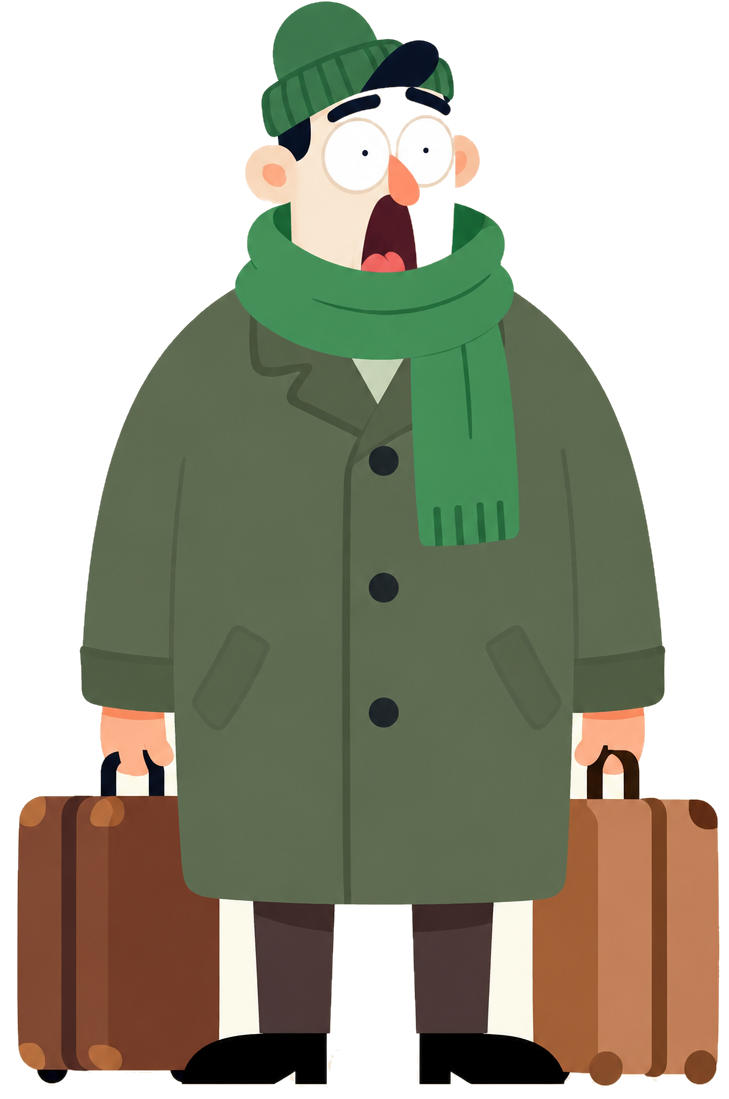
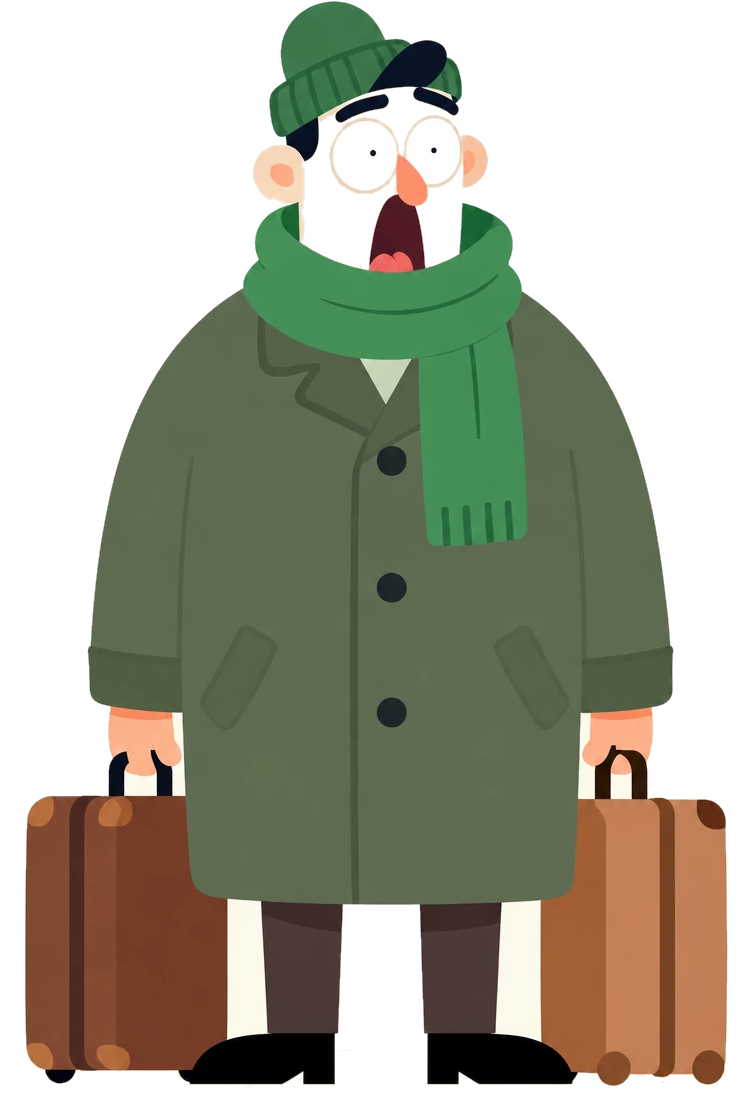
Fix the ancient Otto cutout and add engine support for character episodes
The white beard was flooded away with the cream background, leaving his face see-through. cutout.py gets FILLROWS
(fill the head rows between the outermost solid pixels) and every character was checked on a saturated colour.
Engine: episode mode has no progress bar, E.text takes nowrap (text-wrap:balance was overriding it). Audio: record
scratch and dust poof effects. Landlord cutout added.

diff --git a/tools/reel/engine.js b/tools/reel/engine.js
@@ -124,11 +124,11 @@ window.E = (() => {
   // ---------- kinetic text ----------
   // *word* = mint pill, *$word* = amber pill, *!word* = coral pill, | = line break.
   E.text = (parent, str, o = {}) => {
-    const { size = 56, weight = 900, color = "", lh = 1.06, ls = "", t = 0, stagger = .07, dur = .3, rise = 26, align = "left", font = "", instant = false, css = "", id = "", check = true, up = false } = o;
+    const { size = 56, weight = 900, color = "", lh = 1.06, ls = "", t = 0, stagger = .07, dur = .3, rise = 26, align = "left", font = "", instant = false, css = "", id = "", check = true, up = false, nowrap = false } = o;
     const block = E.el(parent, "tx", `font-size:${size}px;font-weight:${weight};line-height:${lh};text-align:${align};${color ? `color:${color};` : ""}${ls ? `letter-spacing:${ls};` : ""}${font ? `font-family:${font};` : ""}${up ? "text-transform:uppercase;" : ""}${css}`);
     let n = 0; const wordEls = [];
     for (const line of String(str).split("|")) {
-      const ln = E.el(block, "ln");
+      const ln = E.el(block, "ln", nowrap ? "text-wrap:nowrap;white-space:nowrap" : "");   // (.ln has text-wrap:balance, which would override an inherited nowrap)
       const re = /\*([^*]+)\*([^\s*]*)|(\S+)/g; let m;
       while ((m = re.exec(line))) {
         const span = document.createElement("span");
@@ -311,8 +311,7 @@ window.E = (() => {
       E.logo.style.padding = dk ? "8px" : "0";
       E.logo.style.width = E.logo.style.height = dk ? "128px" : "112px";
       E.logo.style.top = dk ? "62px" : "70px"; E.logo.style.right = dk ? "52px" : "60px";
-      E.prog.style.background = dk ? "rgba(246,241,231,.18)" : "rgba(11,42,44,.14)";
-      E.progFill.style.background = dk ? C.mint : C.mintD;
+      if (E.prog) { E.prog.style.background = dk ? "rgba(246,241,231,.18)" : "rgba(11,42,44,.14)"; E.progFill.style.background = dk ? C.mint : C.mintD; }
     }
   };
   E.sceneAt = t => { let r = E.scenes[0]; for (const S of E.scenes) if (t >= S.t0) r = S; return r; };
@@ -321,8 +320,10 @@ window.E = (() => {
   E.finish = (dur) => {
     E.dur = dur;
     E.logo = E.el(E.ui, "logo"); E.logo.innerHTML = `<img src="${E.assets.logo}" alt="">`;
-    E.prog = E.el(E.ui, "prog"); E.progFill = E.el(E.prog, "", "position:absolute;inset:0;border-radius:6px;transform-origin:0 50%");
-    E.K(E.progFill, "sx", [[0, 0.0001], [dur, 1, "lin"]]);
+    if (E.kind !== "episode") {                                                       // (an episode has no progress bar: Instagram draws its own)
+      E.prog = E.el(E.ui, "prog"); E.progFill = E.el(E.prog, "", "position:absolute;inset:0;border-radius:6px;transform-origin:0 50%");
+      E.K(E.progFill, "sx", [[0, 0.0001], [dur, 1, "lin"]]);
+    }
     E.render(0);
   };
 

diff --git a/tools/reel/audio.py b/tools/reel/audio.py
@@ -71,7 +71,21 @@ def s_nope():
 def s_riser():
     return peak(band_noise(1.0, 180, 3800, 1.6, 1.0, ramp=1.6)) * .55
 
-SFX = dict(whoosh=s_whoosh, swish=s_swish, pop=s_pop, thud=s_thud, slam=s_slam, ding=s_ding, tick=s_tick, sparkle=s_sparkle, nope=s_nope, riser=s_riser)
+def s_scratch():
+    # record scratch: a fast pitch dive and a quick swing back, over grainy noise
+    n1, n2 = int(.16 * SR), int(.11 * SR)
+    f = np.concatenate([np.linspace(1100, 140, n1), np.linspace(140, 620, n2)])
+    ph = 2 * np.pi * np.cumsum(f) / SR
+    saw = sum(np.sin(h * ph) / h for h in (1, 2, 3, 4))
+    grain = lowpass(rng.standard_normal(len(f)), 3)
+    e = np.concatenate([np.linspace(.2, 1, n1) ** .5, np.linspace(1, 0, n2) ** 1.3])
+    return peak((saw * .7 + grain * .9) * e) * .8
+def s_poof():
+    n = int(.7 * SR); t = T(n)
+    puff = band_noise(.7, 3000, 260, 1.1, 1.0)[:n] * np.exp(-t / .22)
+    low = sweep(.7, 90, 40, 9) * env(n, .004, .12)
+    return peak(puff * .8 + low * .5) * .8
+SFX = dict(scratch=s_scratch, poof=s_poof, whoosh=s_whoosh, swish=s_swish, pop=s_pop, thud=s_thud, slam=s_slam, ding=s_ding, tick=s_tick, sparkle=s_sparkle, nope=s_nope, riser=s_riser)
 cache = {}
 sfx = np.zeros((N, 2)); loud = []
 for k, ev in enumerate(sorted(meta["sounds"], key=lambda e: e["t"])):
@@ -81,7 +95,7 @@ for k, ev in enumerate(sorted(meta["sounds"], key=lambda e: e["t"])):
     i = int(round(ev["t"] * SR)); j = min(N, i + len(y))
     pan = 0.5 + (0.12 if k % 2 else -0.12)                       # a touch of alternating width
     sfx[i:j, 0] += y[:j - i] * np.cos(pan * np.pi / 2); sfx[i:j, 1] += y[:j - i] * np.sin(pan * np.pi / 2)
-    if name in ("whoosh", "thud", "slam", "ding", "sparkle", "nope", "riser"): loud.append(ev["t"])
+    if name in ("whoosh", "thud", "slam", "ding", "sparkle", "nope", "riser", "scratch", "poof"): loud.append(ev["t"])
 
 # ---------- music bed ----------
 spec = meta.get("music") or {}

diff --git a/tools/reel/cutout.py b/tools/reel/cutout.py
@@ -2,7 +2,7 @@
 """cutout.py in.(webp|png) out.png — make a flat cream background transparent.
 Flood-fills from the image border over pixels close to the border colour, so cream inside the character
 (a polo shirt, a page) stays. Edge pixels get a soft alpha. Needs only PIL + numpy."""
-import sys
+import sys, os
 from collections import deque
 import numpy as np
 from PIL import Image, ImageFilter
@@ -36,6 +36,14 @@ soft = np.clip((dist - tol * .55) / (tol * .9), 0, 1) * 255
 alpha = np.where(edge & ~seen, np.minimum(alpha + 255, soft + 40).clip(0, 255), alpha)
 alpha = np.asarray(Image.fromarray(alpha.astype(np.uint8)).filter(ImageFilter.GaussianBlur(.8)))
 alpha = np.where(seen, 0, alpha)
+# FILLROWS=0.5: a near-cream feature (a white beard) can be flooded away together with the background. In the top part of the
+# image, treat everything between the outermost solid pixels of each row as the character.
+fr = os.environ.get("FILLROWS")
+if fr:
+    solid = alpha > 128
+    for y in range(int(h * float(fr))):
+        xs = np.flatnonzero(solid[y])
+        if len(xs) > 1: alpha[y, xs[0]:xs[-1] + 1] = 255
 out = Image.fromarray(np.dstack([a.astype(np.uint8), alpha.astype(np.uint8)]), "RGBA")
 bbox = out.getchannel("A").point(lambda v: 255 if v > 8 else 0).getbbox()
 import os
